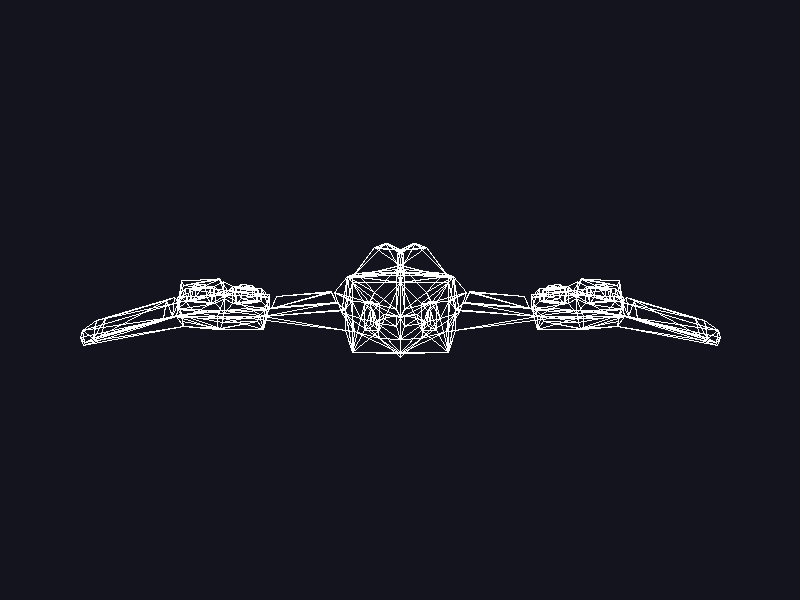
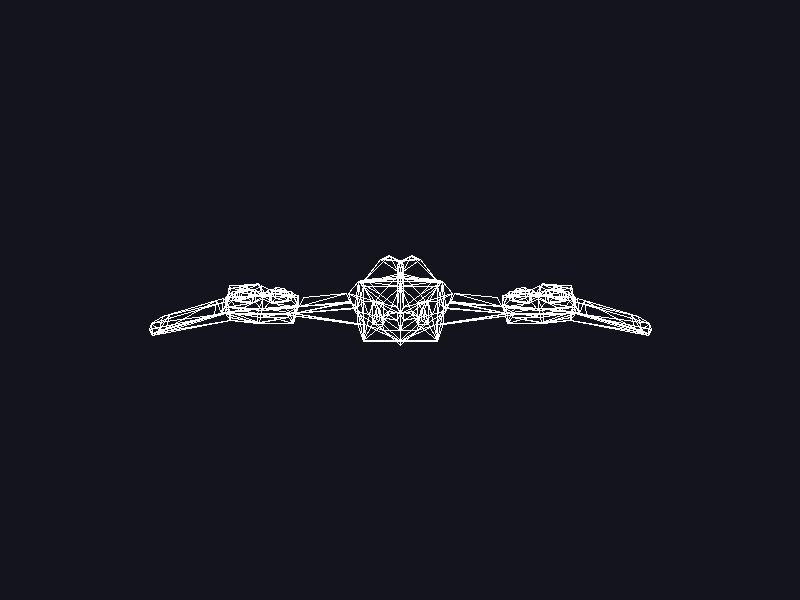
Capturas de cada modo y README del laboratorio 5

Changed region(s): [[0.0938, 0.39, 0.9062, 0.6]]

diff --git a/src/main.rs b/src/main.rs
@@ -174,7 +174,7 @@ fn main() {
         return;
     }
 
-    // Captura sin abrir ventana
+    // Capturas sin abrir ventana
     if std::env::args().any(|arg| arg == "--captura") {
         let uniforms = Uniforms {
             model_matrix: model_matrix(rotation),
@@ -182,7 +182,24 @@ fn main() {
         framebuffer.clear();
         render(&mut framebuffer, &uniforms, &vertex_array, TriangleMode::Wireframe);
         framebuffer.render_to_file("capturas/nave.png");
-        println!("Captura guardada en capturas/nave.png");
+
+        let top_uniforms = Uniforms {
+            model_matrix: model_matrix(Vector3::new(-std::f32::consts::FRAC_PI_2, 0.0, 0.0)),
+        };
+        for (mode, name) in [
+            (TriangleMode::Wireframe, "contorno"),
+            (TriangleMode::FilledBarycentric, "baricentrico"),
+            (TriangleMode::FilledScanline, "scanline"),
+        ] {
+            framebuffer.clear();
+            render(&mut framebuffer, &top_uniforms, &vertex_array, mode);
+            framebuffer.render_to_file(&format!("capturas/nave_{name}.png"));
+
+            framebuffer.clear();
+            render(&mut framebuffer, &test_uniforms, &test_vertices, mode);
+            framebuffer.render_to_file(&format!("capturas/pruebas_{name}.png"));
+        }
+        println!("Capturas guardadas en capturas/");
         return;
     }
 

diff --git a/README.md b/README.md
@@ -1,34 +1,11 @@
-# Proyecto 1 — Parte 1: Dibujando un modelo OBJ
+# Renderer de software en Rust
 
-Renderer en Rust que carga un modelo `.obj` con un cargador propio y dibuja todos sus triángulos con las funciones `line` y `triangle`, sin usar las funciones de Raylib para cargar o dibujar modelos 3D. Raylib solo se usa para abrir la ventana y mostrar el framebuffer.
+Renderer en Rust que carga un modelo `.obj` con un cargador propio y lo dibuja píxel por píxel en un framebuffer. Raylib solo se usa para abrir la ventana y mostrar el framebuffer; no se usan sus funciones para cargar ni dibujar modelos 3D.
 
-## Resultado
+- **Laboratorio 4 — Cargar un modelo OBJ** (rama `lab4-cargar-modelo`): dibuja los triángulos de la nave como contorno.
+- **Laboratorio 5 — Rellenar triángulos** (rama `lab5-rellenar-triangulos`): rellena esos triángulos con dos algoritmos y los compara. Es lo que describe este README.
 
-![Modelo renderizado](capturas/nave.png)
-
-Modelo: [`assets/nave.obj`](assets/nave.obj), una nave hecha en Blender y exportada con caras trianguladas.
-
-| Dato | Valor |
-|---|---|
-| Vértices | 401 |
-| Índices | 2406 |
-| Triángulos | 802 |
-
-## Cómo funciona
-
-```
-Archivo OBJ → Vértices + índices → Triángulos → Líneas → Píxeles → Pantalla
-```
-
-1. **Cargador (`src/obj.rs`)**: `load_obj` lee el archivo línea por línea.
-   - Las líneas `v x y z` se convierten en un `Vector3` y se guardan en `vertices`.
-   - Las líneas `f a b c` se guardan en `indices`. De cada grupo (`1/4/2`) se toma solo el primer número y se le resta 1, porque OBJ numera desde 1 y un `Vec` de Rust desde 0.
-   - Las demás líneas se ignoran.
-2. **Recorrido del modelo (`src/main.rs`)**: los índices se recorren de tres en tres. Con cada grupo se buscan los tres vértices y se dibuja el triángulo.
-3. **Posición en pantalla**: se usan directamente las componentes `x` e `y` de cada vértice. Se escalan para que el modelo ocupe el 80 % de la ventana, se centran y se invierte `y`, porque en el framebuffer `y` crece hacia abajo.
-4. **Dibujo**: `triangle` (`src/triangle.rs`) llama tres veces a `line` (`src/line.rs`, algoritmo de Bresenham), y cada línea escribe sus píxeles en el framebuffer.
-
-Como solo se usan `x` e `y`, la nave se ve de frente y sin perspectiva.
+Modelo: [`assets/nave.obj`](assets/nave.obj), una nave hecha en Blender y exportada con caras trianguladas (401 vértices, 802 triángulos).
 
 ## Ejecutar
 
@@ -36,8 +13,145 @@ Como solo se usan `x` e `y`, la nave se ve de frente y sin perspectiva.
 cargo run --release
 ```
 
-Para regenerar la captura sin abrir la ventana:
+| Tecla | Acción |
+|---|---|
+| `1` | Contorno |
+| `2` | Relleno con coordenadas baricéntricas |
+| `3` | Relleno por líneas horizontales (scanline) |
+| Flechas | Rotar la nave |
+| `R` | Volver a la vista de frente |
+| `TAB` | Cambiar entre la nave y la escena de pruebas |
+
+Otros modos, ninguno abre la ventana:
 
 ```bash
-cargo run --release -- --captura
+cargo run --release -- --benchmark-triangles   # mediciones
+cargo run --release -- --comparar              # comparación de posiciones
+cargo run --release -- --captura               # regenera las imágenes de capturas/
 ```
+
+## Modos de dibujo
+
+```rust
+#[derive(Clone, Copy)]
+pub enum TriangleMode {
+    Wireframe,
+    FilledBarycentric,
+    FilledScanline,
+}
+```
+
+`rasterize` (`src/rasterizer.rs`) recibe los triángulos y el modo, y devuelve un `Vec<Fragment>`. Cada modo es una función aparte en `src/triangle.rs` que recibe los tres vértices:
+
+- **`triangle`** (contorno): tres llamadas a `line` (Bresenham).
+- **`triangle_barycentric`**: recorre el rectángulo que envuelve al triángulo y evalúa el centro de cada píxel `(x + 0.5, y + 0.5)` con las tres funciones de arista. Si el área es 0, el triángulo es degenerado y no genera fragmentos. Si el área es negativa, intercambia dos vértices, así que el orden de los vértices no importa.
+- **`triangle_scanline`**: ordena los vértices por `y` y, para cada fila cuyo centro cae dentro del triángulo, calcula dónde cortan las aristas y llena el tramo entre ambos cortes.
+
+En los modos de relleno cada triángulo recibe un tono según su normal y una luz fija (sombreado plano), y un z-buffer decide qué cara queda delante. Esto se aplica después de generar los fragmentos, así que no cambia las posiciones ni las mediciones.
+
+## Imágenes de cada modo
+
+| Contorno | Baricéntrico | Scanline |
+|---|---|---|
+| ![Nave contorno](capturas/nave_contorno.png) | ![Nave baricéntrico](capturas/nave_baricentrico.png) | ![Nave scanline](capturas/nave_scanline.png) |
+| ![Pruebas contorno](capturas/pruebas_contorno.png) | ![Pruebas baricéntrico](capturas/pruebas_baricentrico.png) | ![Pruebas scanline](capturas/pruebas_scanline.png) |
+
+Arriba, la nave vista desde arriba. Abajo, la escena de pruebas (`src/test_scene.rs`), con los casos que pide la tarea:
+
+1. Pequeño (amarillo, esquina) y grande (amarillo).
+2. Borde horizontal y borde vertical (azules).
+3. Los mismos tres vértices en orden normal y en orden inverso (verdes).
+4. Parcialmente fuera del framebuffer (rosado, abajo a la derecha).
+5. Tres vértices sobre una misma línea: en contorno se ve como una línea; en los rellenos no genera nada porque su área es 0.
+
+## Comparación de posiciones
+
+`--comparar` genera los fragmentos de ambos algoritmos para cada triángulo y compara los conjuntos de posiciones `(x, y)`, no la imagen.
+
+| Caso | Baricéntrico | Scanline | Solo baricéntrico | Solo scanline | Duplicados |
+|---|---:|---:|---:|---:|---:|
+| pequeño | 90 | 90 | 0 | 0 | 0 |
+| grande | 20645 | 20645 | 0 | 0 | 0 |
+| borde horizontal | 12000 | 12000 | 0 | 0 | 0 |
+| borde vertical | 13600 | 13600 | 0 | 0 | 0 |
+| orden normal | 15245 | 15245 | 0 | 0 | 0 |
+| orden inverso | 15245 | 15245 | 0 | 0 | 0 |
+| parcialmente fuera | 52380 | 52380 | 0 | 0 | 0 |
+| colineal | 0 | 0 | 0 | 0 | 0 |
+| nave (frente) | 39486 | 39486 | 0 | 0 | 0 |
+| nave (arriba) | 175692 | 175692 | 1 | 1 | 0 |
+
+Además, con los vértices en orden inverso ambos algoritmos generan exactamente las mismas posiciones en todos los casos.
+
+### Regla de cada implementación
+
+Los dos usan la misma idea: un píxel se pinta si su **centro** está dentro del triángulo. Cuando el centro cae justo sobre una arista, aplican esta regla para que un píxel compartido por dos triángulos se pinte una sola vez:
+
+- **Baricéntrico: regla arriba-izquierda.** Un centro que cae justo sobre una arista cuenta como dentro solo si esa arista es superior (horizontal, arriba) o izquierda. Por eso un borde horizontal superior se incluye y uno inferior no.
+- **Scanline: intervalos medio abiertos.** Las filas van de `[y_min, y_max)` y los tramos de `[x_izq, x_der)`. Un centro exactamente en el borde izquierdo o superior se incluye, y uno en el borde derecho o inferior no. Los vértices que caen justo en una fila los cubre la misma regla, y una arista horizontal no genera ningún corte.
+
+Las dos reglas dan el mismo resultado en todos los casos de prueba. La única diferencia es **un píxel** de la nave vista desde arriba: el (574, 354). Su centro (574.5, 354.5) cae prácticamente sobre la arista que comparten los triángulos 130 y 531.
+
+- El baricéntrico obtiene ±0.00055 en la función de arista, no exactamente 0, por el redondeo de `f32`, y asigna el píxel al triángulo 531.
+- El scanline calcula el corte en exactamente x = 574.5 y, por el intervalo `[x_izq, x_der)`, asigna el píxel al triángulo 130.
+
+En ambos el píxel se pinta una sola vez: no hay huecos ni duplicados, el total de fragmentos es el mismo y la imagen final es idéntica.
+
+## Mediciones
+
+`cargo run --release -- --benchmark-triangles` (i7-13620H). Se mide solo la generación de fragmentos con `Instant` y `black_box`: 100 ejecuciones seguidas, repetidas 15 veces, y se reporta la mediana.
+
+### Casos de prueba (8 triángulos)
+
+| Algoritmo | Fragmentos | Mediana por 100 ejecuciones | Por ejecución |
+|---|---:|---:|---:|
+| Contorno | 4153 | 2.93 ms | 0.029 ms |
+| Baricéntrico | 129205 | 264.53 ms | 2.645 ms |
+| Scanline | 129205 | 217.80 ms | 2.178 ms |
+
+Scanline es **1.21 veces** más rápido que baricéntrico.
+
+### Nave desde arriba (802 triángulos)
+
+| Algoritmo | Fragmentos | Mediana por 100 ejecuciones | Por ejecución |
+|---|---:|---:|---:|
+| Contorno | 92630 | 73.80 ms | 0.738 ms |
+| Baricéntrico | 175692 | 228.79 ms | 2.288 ms |
+| Scanline | 175692 | 99.25 ms | 0.992 ms |
+
+Scanline es **2.31 veces** más rápido que baricéntrico.
+
+Ambos rellenos generan los mismos fragmentos, así que la diferencia no viene de hacer menos trabajo útil. En la escena de pruebas los triángulos son grandes y anchos: su rectángulo envolvente no es mucho mayor que el triángulo y la diferencia es pequeña. La nave tiene muchos triángulos delgados y en diagonal, y ahí el baricéntrico evalúa muchos píxeles del rectángulo que quedan fuera. El scanline solo recorre los que están dentro.
+
+## Perfil
+
+![Flamegraph](docs/flamegraph.svg)
+
+[`docs/flamegraph.svg`](docs/flamegraph.svg) se puede abrir en el navegador; es interactivo. Se generó con:
+
+```bash
+CARGO_TARGET_DIR=target/perfil RUSTFLAGS="-C force-frame-pointers=yes" \
+  cargo flamegraph --no-inline -o docs/flamegraph.svg --cmd "record -F 997 -g" -- --benchmark-triangles
+```
+
+`triangle_barycentric` y `triangle_scanline` llevan `#[inline(never)]` para que aparezcan como bloques propios en el perfil y no se mezclen dentro de `rasterize`. Se usan *frame pointers* porque, con la configuración por defecto, el perfil atribuía mal las muestras: `line` salía con 35 % y `triangle_scanline` no aparecía. El resultado se comprobó con un perfil plano de `perf record`.
+
+| Dónde | % de muestras |
+|---|---:|
+| `triangle_barycentric` | 42.7 |
+| ↳ código propio: recorrer el rectángulo, centro del píxel, funciones de arista, crear fragmentos | 38.2 |
+| ↳ crecimiento de su `Vec` | 3.7 |
+| `triangle_scanline` | 18.2 |
+| ↳ código propio: cortes por fila, recorrer el tramo, crear fragmentos | 13.1 |
+| ↳ crecimiento de su `Vec` | 4.1 |
+| `line` (contorno) | 6.3 |
+| `rasterize`: juntar los fragmentos de cada triángulo en un solo `Vec` (`extend`) | 16.3 |
+| Kernel: fallos de página y liberar memoria | 13.9 |
+| Otros | 2.6 |
+
+**¿Cálculos geométricos, creación de fragmentos o crecimiento del `Vec`?**
+
+- **La memoria pesa tanto como la geometría.** Sumando el crecimiento de cada `Vec`, el `extend` de `rasterize` y los fallos de página, cerca del **42 %** de las muestras es manejo de memoria, y ambos algoritmos pagan ese costo por igual.
+- **El código propio del baricéntrico pesa unas 3 veces más que el del scanline** (38 % frente a 13 %) generando los mismos fragmentos. Eso confirma que el costo extra es evaluar los píxeles del rectángulo que quedan fuera del triángulo.
+- Dentro del baricéntrico, aproximadamente: calcular el centro del píxel ~19 %, las funciones de arista ~16 % y guardar el fragmento (`Vec::push`) ~18 %.
+- Una mejora posible sería reservar memoria con `Vec::with_capacity` o escribir todos los fragmentos en un solo `Vec`, en lugar de crear uno por triángulo y luego unirlos.
